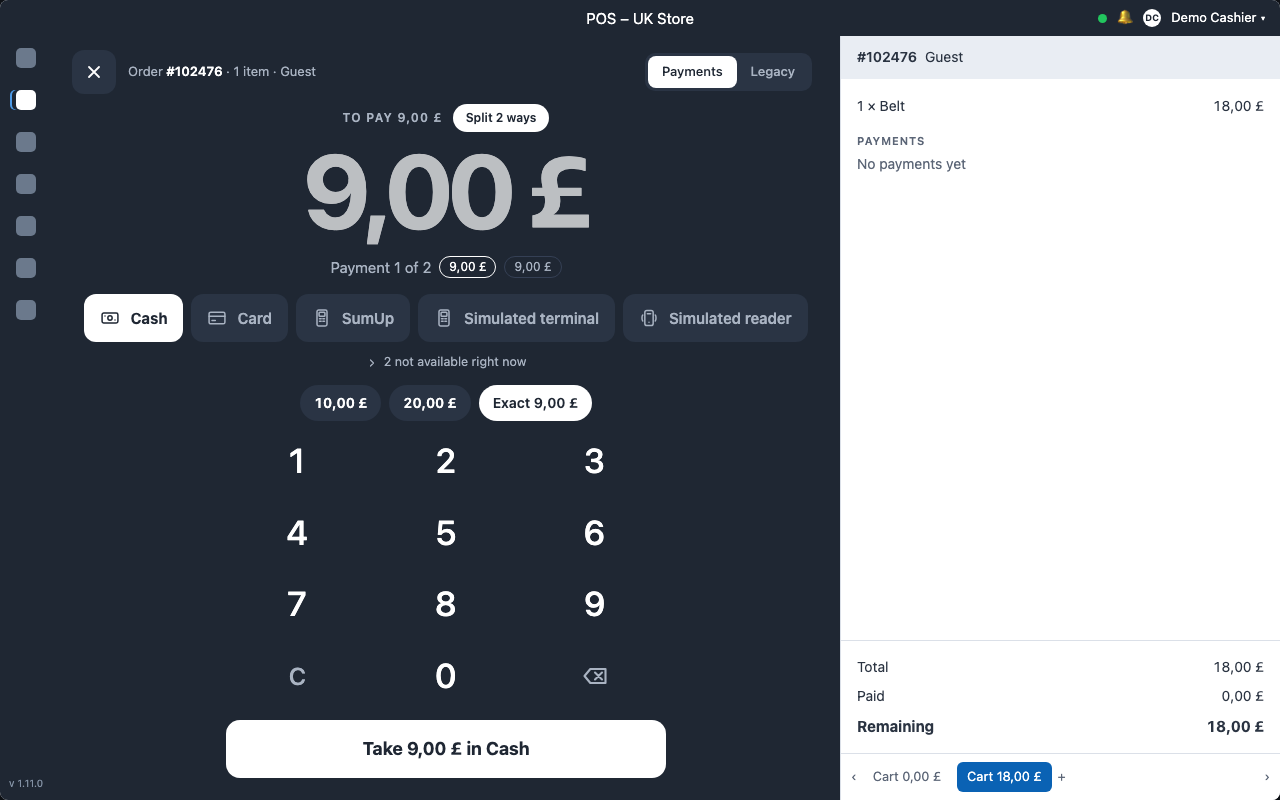
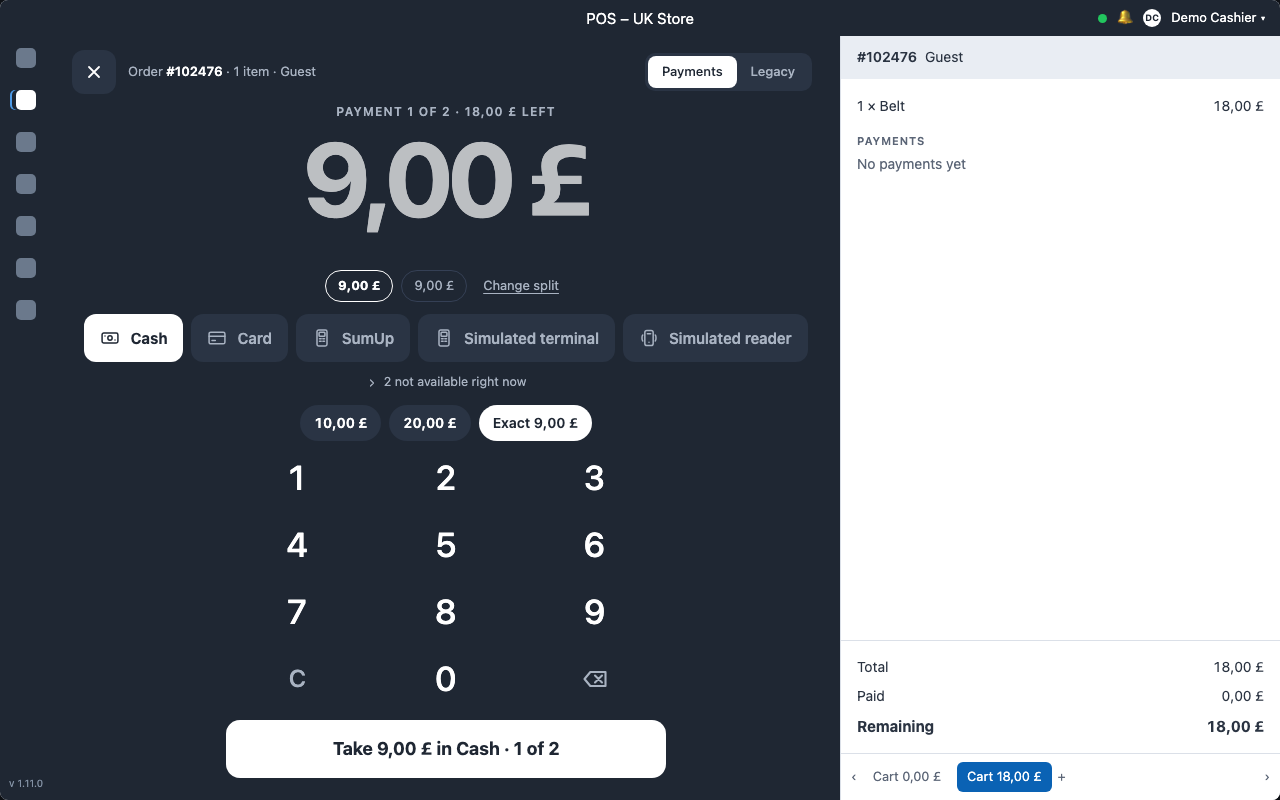
docs: tender pane round 6 — split chooser (2/3/4 ways, part payment, no split), visible plan strip, commit labels that say which payment and what is left

diff --git a/docs/prototypes/2026-09-11-tender-pane-mockups/index.html b/docs/prototypes/2026-09-11-tender-pane-mockups/index.html
@@ -36,7 +36,9 @@
   .rail i{width:20px;height:20px;border-radius:5px;background:#9fb0c8;opacity:.6;display:block}
   .rail i.on{background:#fff;opacity:1;box-shadow:-4px 0 0 0 var(--sidebar), -6px 0 0 0 #4d9ae6}
   .rail .v{margin-top:auto;margin-bottom:10px;color:#8593a6;font-size:10px}
-  .columns{display:grid;grid-template-columns:1fr 440px;min-height:0}
+  .columns{display:grid;grid-template-columns:1fr 440px;min-height:0;position:relative}
+  .paywrap{position:relative;min-height:0;min-width:0;display:flex;overflow:hidden}
+  .paywrap .pay{flex:1;min-width:0}
   .frame.phone .columns{grid-template-columns:1fr;grid-template-rows:1fr auto}
   /* ---- the pay surface ---- */
   .pay{background:var(--pay);color:var(--pay-fg);display:flex;flex-direction:column;padding:14px 28px 22px;min-height:0;position:relative;overflow:auto;transition:background .2s ease-out}
@@ -74,6 +76,30 @@
   .helpers .reader{display:inline-flex;align-items:center;gap:8px;font-size:13px;color:var(--pay-dim);height:36px;padding:0 12px;border-radius:99px;background:var(--pay-2)}
   .helpers .reader svg{width:16px;height:16px}
   .helpers .reader a{color:var(--pay-fg);font-weight:600;cursor:pointer;margin-left:4px}
+  .plan{display:flex;justify-content:center;align-items:center;gap:8px;margin-top:8px;flex-wrap:wrap}
+  .plan .pleg{display:inline-flex;align-items:center;gap:6px;height:32px;padding:0 12px;border-radius:99px;font-size:13px;font-variant-numeric:tabular-nums;border:1px solid var(--pay-3);color:var(--pay-dim)}
+  .plan .pleg.done{background:var(--pay-accent);color:#0f1a15;border-color:transparent;font-weight:600}
+  .plan .pleg.now{border-color:var(--pay-fg);color:var(--pay-fg);font-weight:700}
+  .plan .pleg svg{width:14px;height:14px}
+  .plan .edit{color:var(--pay-dim);font-size:13px;cursor:pointer;padding:6px 8px;border-radius:8px;text-decoration:underline;text-underline-offset:3px}
+  .plan .edit:hover{background:var(--pay-2)}
+  .sheet{position:absolute;inset:0;background:rgba(10,14,20,.55);display:flex;align-items:flex-end;justify-content:center;z-index:5}
+  .sheet .panel{width:100%;max-width:560px;background:var(--pay);color:var(--pay-fg);border-radius:20px 20px 0 0;padding:18px 20px 22px;box-shadow:0 -12px 40px rgba(0,0,0,.4);border:1px solid var(--pay-3);border-bottom:0;animation:up .22s cubic-bezier(.2,.9,.3,1) both}
+  .frame.light .sheet .panel{background:#fff}
+  @keyframes up{from{transform:translateY(24px);opacity:0}to{transform:none;opacity:1}}
+  .sheet .ph{display:flex;justify-content:space-between;align-items:center;font-size:17px;font-weight:700;margin-bottom:4px}
+  .sheet .ph .x{width:36px;height:36px;border-radius:10px;background:var(--pay-2);display:inline-flex;align-items:center;justify-content:center;cursor:pointer}
+  .sheet .ph .x svg{width:18px;height:18px}
+  .sheet .ps{font-size:13px;color:var(--pay-dim);margin-bottom:14px}
+  .opts{display:grid;grid-template-columns:repeat(3,1fr);gap:10px}
+  .opt{height:84px;border-radius:14px;background:var(--pay-2);display:flex;flex-direction:column;align-items:center;justify-content:center;gap:4px;cursor:pointer;transition:transform .08s;user-select:none}
+  .opt:active{transform:scale(.97)}
+  .opt.on{background:var(--pay-fg);color:var(--pay)}
+  .opt .t{font-size:17px;font-weight:700}
+  .opt .s{font-size:12.5px;opacity:.8;font-variant-numeric:tabular-nums}
+  .opts .opt.wide{grid-column:span 3;height:56px;flex-direction:row;gap:10px}
+  .opts .opt.wide .s{opacity:.7}
+  .frame.phone .opts{grid-template-columns:repeat(3,1fr)}
   .commit{display:flex;justify-content:center;margin-top:10px;flex:none}
   .commit .btn{width:100%;max-width:440px;height:58px;font-size:18px}
   .commit .btn.disabled{opacity:.45;cursor:default}
@@ -190,7 +216,9 @@
     <button data-jump="typed">Typed 20</button>
     <button data-jump="card">Card selected</button>
     <button data-jump="sumup">SumUp selected</button>
+    <button data-jump="splitsheet">Split chooser</button>
     <button data-jump="split">Split 2 ways</button>
+    <button data-jump="split3after">3 ways · after leg 1</button>
     <button data-jump="partpaid">After a cash leg</button>
     <button data-jump="terminal">On the terminal</button>
     <button data-jump="paid">Paid</button>
@@ -207,7 +235,7 @@
     <div class="topbar">POS – UK Store<div class="right"><span class="dot" id="dot"></span><span>🔔</span><span class="avatar">DC</span><span>Demo Cashier ▾</span></div></div>
     <div class="rail"><i></i><i class="on"></i><i></i><i></i><i></i><i></i><i></i><span class="v">v 1.11.0</span></div>
     <div class="columns">
-      <div class="pay" id="pay"></div>
+      <div class="paywrap"><div class="pay" id="pay"></div></div>
       <div class="ledger" id="ledger"></div>
       <div class="balbar" id="balbar"></div>
     </div>
@@ -221,7 +249,7 @@
     <li><b>The method is the commit.</b> Cash and Card are white and carry the amount they will take. Terminals and readers sit beside them in the same row, in POS-settings order; six gateways wrap to a second row, they never hide. Unavailable ones are faded with one quiet line under the row saying why.</li>
     <li><b>Card goes straight to the terminal moment.</b> No confirm screen: the surface becomes the amount, the terminal's live steps and a way out, then the Paid moment. Cash goes to Paid at once.</li>
     <li><b>Paid is a full-bleed beat.</b> The surface turns green, the tick draws, the change is the headline for cash, then Print / Email / No receipt · New sale. This is the joy, and it is over in a second.</li>
-    <li><b>Split and Legacy are text actions in the header.</b> Split turns the amount into a plan (Payment 1 of 2 · 9,00 | 9,00) and pre-types the leg. Custom amounts need no control: type.</li>
+    <li><b>Split is a chooser, then a plan you can see.</b> 2 / 3 / 4 ways with the amount each, or type a part payment. The strip under the number shows every leg: done ones green with their method, this one outlined, the rest dim; <i>Change split</i> re-plans the remainder at any time. The label and the commit button both say which payment this is and what is left.</li>
     <li><b>Three surfaces to choose from:</b> slate (the app's sidebar colour), the brand blue, and light. Same layout, same tokens.</li>
     <li><b>Close, not an arrow.</b> Esc on desktop.</li>
   </ul>
@@ -256,15 +284,27 @@ const METHODS = [
   { id:'stripe', kind:'reader',   title:'Stripe', device:true, why:'not available in the browser' },
 ];
 const TOTAL = 18.00;
-const S = { entry:null, split:'0', offline:0, surface:'slate', phone:0, legs:[], view:'keypad', term:null, timers:[], method:'cash', unavailOpen:0 };
+const S = { entry:null, plan:null, sheet:0, offline:0, surface:'slate', phone:0, legs:[], view:'keypad', term:null, timers:[], method:'cash', unavailOpen:0 };
+I.split='<svg viewBox="0 0 24 24" fill="none" stroke="currentColor" stroke-width="2" stroke-linecap="round"><path d="M12 4v16M4 12h16"/></svg>';
 I.caret='<svg viewBox="0 0 24 24" fill="none" stroke="currentColor" stroke-width="2.4" stroke-linecap="round" stroke-linejoin="round"><path d="M6 9l6 6 6-6"/></svg>';
 
 const paidSoFar = () => S.legs.reduce((a,l)=>a+l.amount,0);
 function figures(){
   const paid = paidSoFar(), remaining = Math.max(0, TOTAL - paid);
-  let thisPay = remaining, plan = null;
-  if (S.split==='2' && remaining>0){ const n=S.legs.length; thisPay = n===0 ? remaining/2 : remaining; plan = {txt:`Payment ${n+1} of 2`, legs:[{v:TOTAL/2,k:n>0?'done':'now'},{v:TOTAL/2,k:n>0?'now':''}]}; }
-  return { paid, remaining, thisPay, plan };
+  let thisPay = remaining, planInfo = null;
+  if (S.plan && remaining > 0){
+    const done = S.legs.length;                   // legs taken since the plan was made are counted from the start of the plan
+    const taken = S.legs.slice(S.plan.from);
+    const idx = taken.length;                     // index of the leg we are on
+    const left = S.plan.ways - idx;               // planned legs still to take, including this one
+    const each = left > 0 ? Math.round(remaining / left * 100) / 100 : remaining;
+    thisPay = left > 1 ? each : remaining;
+    const legs = [];
+    taken.forEach(l => legs.push({k:'done', v:l.amount, title:l.title}));
+    for (let i=0;i<left;i++){ const v = i===left-1 ? Math.round((remaining - each*(left-1))*100)/100 : each; legs.push({k:i===0?'now':'', v}); }
+    planInfo = { n: idx+1, ways: S.plan.ways, legs, left };
+  }
+  return { paid, remaining, thisPay, plan: planInfo };
 }
 const methods = () => METHODS.map(m => { let why = m.why || null; if (S.offline && (m.server||m.device)) why = 'needs a connection'; return {...m, why, off: !!why}; });
 const clearTimers = () => { S.timers.forEach(clearTimeout); S.timers = []; };
@@ -282,8 +322,8 @@ function keypadView(f){
   let line = '';
   if (change>0) line = `<span class="chg">Change ${fmt(change)}</span>`;
   else if (m && !m.change && entry > f.thisPay) line = `<span class="short">Only ${fmt(f.thisPay)} is due — ${m.title} can't give change</span>`;
-  else if (short>0 && entry>0) line = `<span class="short">${fmt(short)} still to take after this</span>`;
-  else if (f.plan) line = `<span class="plan">${f.plan.txt}</span>${f.plan.legs.map(l=>`<span class="leg ${l.k}">${fmt(l.v)}</span>`).join('')}`;
+  else if (short>0 && entry>0 && !f.plan) line = `<span class="short">Part payment · ${fmt(short)} left after this</span>`;
+  else if (short>0 && entry>0 && f.plan) line = `<span class="short">Less than planned · ${fmt(short)} moves to the next payment</span>`;
   const offline = S.offline ? `<span class="badge warn">${I.wifi} Offline · cash and card only</span>` : '';
   // helpers change with the selected method
   let helpers = '';
@@ -295,7 +335,25 @@ function keypadView(f){
   } else if (m){
     helpers = `<span class="q ${ghost?'on':''}" data-q="exact">Full balance ${fmt(f.thisPay)}</span>`;
   }
-  const commitLabel = !m ? 'Choose how the customer is paying' : (m.server||m.device) ? `Send ${fmt(applied)} to ${m.title}` : `Take ${fmt(applied)} in ${m.title}`;
+  const leftAfter = Math.round((f.remaining - applied)*100)/100;
+  const tail = f.plan ? ` · ${f.plan.n} of ${f.plan.ways}` : (leftAfter > 0 ? ` · ${fmt(leftAfter)} left` : '');
+  const commitLabel = !m ? 'Choose how the customer is paying' : ((m.server||m.device) ? `Send ${fmt(applied)} to ${m.title}` : `Take ${fmt(applied)} in ${m.title}`) + tail;
+  const planStrip = f.plan ? `<div class="plan">${f.plan.legs.map(l=>`<span class="pleg ${l.k}">${l.k==='done' ? I.check : ''}${l.title ? l.title + ' ' : ''}${fmt(l.v)}</span>`).join('')}<span class="edit" data-split>Change split</span></div>` : '';
+  const half = f.remaining/2, third = f.remaining/3, quarter = f.remaining/4;
+  const sheet = S.sheet ? `
+  <div class="sheet" data-sheet-bg>
+    <div class="panel">
+      <div class="ph"><span>Split ${fmt(f.remaining)}</span><span class="x" data-sheet-close>${I.close}</span></div>
+      <div class="ps">Any method for each payment · change the split at any time</div>
+      <div class="opts">
+        <span class="opt ${S.plan && S.plan.ways===2?'on':''}" data-ways="2"><span class="t">2 ways</span><span class="s">${fmt(half)} each</span></span>
+        <span class="opt ${S.plan && S.plan.ways===3?'on':''}" data-ways="3"><span class="t">3 ways</span><span class="s">${fmt(third)} each</span></span>
+        <span class="opt ${S.plan && S.plan.ways===4?'on':''}" data-ways="4"><span class="t">4 ways</span><span class="s">${fmt(quarter)} each</span></span>
+        <span class="opt wide" data-ways="custom"><span class="t">Type an amount</span><span class="s">take part now, the rest after</span></span>
+        ${S.plan ? `<span class="opt wide" data-ways="0"><span class="t">No split</span><span class="s">take the ${fmt(f.remaining)} in one payment</span></span>` : ''}
+      </div>
+    </div>
+  </div>` : '';
   const canCommit = m && applied > 0 && !(m && !m.change && entry > f.thisPay);
   return `
   <div class="hd">
@@ -305,22 +363,24 @@ function keypadView(f){
     <div class="seg"><span class="on">Payments</span><span>Legacy</span></div>
   </div>
   <div class="amt">
-    <div class="lblrow"><span class="lbl">${f.paid>0 ? 'Remaining' : 'To pay'} ${fmt(f.thisPay)}</span>${f.remaining>0 ? `<span class="splitchip ${S.split!=='0'?'on':''}" data-split>${S.split!=='0' ? 'Split 2 ways' : 'Split'}</span>` : ''}${offline}</div>
+    <div class="lblrow"><span class="lbl">${f.plan ? `Payment ${f.plan.n} of ${f.plan.ways} · ${fmt(f.remaining)} left` : (f.paid>0 ? 'Remaining' : 'To pay') + ' ' + fmt(f.thisPay)}</span>${f.remaining>0 && !f.plan ? `<span class="splitchip" data-split>Split</span>` : ''}${offline}</div>
     <div class="big ${ghost?'ghost':''}" id="big">${fmt(entry)}</div>
     <div class="line">${line}</div>
+    ${planStrip}
   </div>
   <div class="sel">${ons.map(x=>`<span class="m ${x.id===S.method?'on':''}" data-pick="${x.id}"><span class="ic">${I[x.kind]}</span>${x.title}</span>`).join('')}</div>
   ${offs.length ? `<div class="unav ${S.unavailOpen?'':'closed'}"><span class="h" data-unavail><span class="car">${I.caret}</span>${offs.length} not available right now</span><ul>${offs.map(x=>`<li><span class="ic">${I[x.kind]}</span><b>${x.title}</b><span class="why">${x.why}</span></li>`).join('')}</ul></div>` : ''}
   <div class="helpers">${helpers}</div>
   <div class="keys">${['1','2','3','4','5','6','7','8','9'].map(k=>`<span class="k" data-key="${k}">${k}</span>`).join('')}<span class="k sub" data-key="C">C</span><span class="k" data-key="0">0</span><span class="k sub" data-key="⌫">${I.del}</span></div>
-  <div class="commit"><span class="btn white ${canCommit?'':'disabled'}" ${canCommit && m ? `data-take="${m.id}"` : ''}>${commitLabel}</span></div>`;
+  <div class="commit"><span class="btn white ${canCommit?'':'disabled'}" ${canCommit && m ? `data-take="${m.id}"` : ''}>${commitLabel}</span></div>
+  ${sheet}`;
 }
 
 function terminalView(f){
   const t = S.term; const m = METHODS.find(x=>x.id===t.method);
   const steps = ['Sent','On terminal','Approved','Captured'];
   return `
-  <div class="hd"><span class="title">Order <b>#102476</b> · 1 item</span><span class="lnk">${f.plan ? f.plan.txt : 'Payment 1 of 1'}</span></div>
+  <div class="hd"><span class="title">Order <b>#102476</b> · 1 item</span><span class="lnk">${f.plan ? `Payment ${f.plan.n} of ${f.plan.ways}` : 'Payment 1 of 1'}</span></div>
   <div class="term">
     <div class="amt"><div class="lbl">On the terminal</div><div class="big" style="font-size:80px">${fmt(t.amount)}</div><div class="line"><span class="plan">${t.step<1?'Sending to the terminal…':t.step<2?'Waiting for the customer':t.step<3?'Approved, capturing…':'Captured'}</span></div></div>
     <div class="ring"></div>
@@ -339,7 +399,7 @@ function paidView(f){
   <div class="paidwrap">
     <div class="tick">${I.check}</div>
     <div class="h">${change>0 ? 'Change ' + fmt(change) : 'Paid ' + fmt(TOTAL)}</div>
-    <div class="s">${change>0 ? `Paid <b>${fmt(TOTAL)}</b> · tendered <b>${fmt(last.amount + change)}</b> in cash` : (last.title + (last.detail ? ' · ' + last.detail : ''))}${S.legs.length>1 ? ` · ${S.legs.length} payments` : ''}</div>
+    <div class="s">${change>0 ? `Paid <b>${fmt(TOTAL)}</b> · tendered <b>${fmt(last.amount + change)}</b> in cash` : (last.title + (last.detail ? ' · ' + last.detail : ''))}${S.legs.length>1 ? ` · ${S.legs.length} payments: ${S.legs.map(l=>l.title+' '+fmt(l.amount)).join(', ')}` : ''}</div>
     <div class="acts"><span class="btn white" data-new>Print receipt · New sale</span><span class="btn ghost" data-new>Email receipt</span><span class="btn ghost" data-new>No receipt · New sale</span></div>
   </div>`;
 }
@@ -386,17 +446,20 @@ function take(id){
 function land(m, applied, change, detail){
   S.legs.push({ title: m.title, amount: applied, change, detail, fresh:true });
   S.entry = null; S.term = null; S.view = 'keypad';
+  if (S.plan && S.legs.length - S.plan.from >= S.plan.ways) S.plan = null;
   const f = figures();
   if (f.remaining <= 0) S.view = 'paid';
   render();
 }
 function jump(name){
-  clearTimers(); S.entry=null; S.split='0'; S.legs=[]; S.view='keypad'; S.term=null; S.method='cash'; S.unavailOpen=0;
+  clearTimers(); S.entry=null; S.plan=null; S.sheet=0; S.legs=[]; S.view='keypad'; S.term=null; S.method='cash'; S.unavailOpen=0;
   if (name==='typed') S.entry = 20;
   if (name==='card') S.method = 'card';
   if (name==='sumup') S.method = 'sumup';
   if (name==='unavail') S.unavailOpen = 1;
-  if (name==='split') S.split = '2';
+  if (name==='split') S.plan = { ways:2, from:0 };
+  if (name==='splitsheet') S.sheet = 1;
+  if (name==='split3after'){ S.plan = { ways:3, from:0 }; S.legs = [{title:'Cash', amount:6, change:0, detail:'Tendered 6,00 £ · change 0,00 £'}]; S.method='card'; }
   if (name==='partpaid') S.legs = [{title:'Cash', amount:10, change:0, detail:'Tendered 10,00 £ · change 0,00 £'}];
   if (name==='terminal'){ S.view='terminal'; S.term={method:'sumup', amount:18, step:1}; }
   if (name==='paid'){ S.legs=[{title:'Cash', amount:18, change:2, detail:'Tendered 20,00 £ · change 2,00 £'}]; S.view='paid'; }
@@ -421,12 +484,20 @@ document.getElementById('pay').addEventListener('click', e => {
   const pk = t.closest('[data-pick]'); if (pk){ S.method = pk.dataset.pick; S.entry = null; return render(); }
   if (t.closest('[data-unavail]')){ S.unavailOpen = S.unavailOpen ? 0 : 1; return render(); }
   const m = t.closest('[data-take]'); if (m) return take(m.dataset.take);
-  if (t.closest('[data-split]')){ S.split = S.split==='0' ? '2' : '0'; S.entry=null; return render(); }
+  const w = t.closest('[data-ways]'); if (w){
+    const ways = w.dataset.ways;
+    if (ways==='custom'){ S.plan = null; S.entry = 0; S.sheet = 0; return render(); }
+    if (ways==='0'){ S.plan = null; S.entry = null; S.sheet = 0; return render(); }
+    S.plan = { ways:+ways, from:S.legs.length }; S.entry = null; S.sheet = 0; return render();
+  }
+  if (t.closest('[data-sheet-close]') || (t.closest('[data-sheet-bg]') && !t.closest('.panel'))){ S.sheet = 0; return render(); }
+  if (t.closest('[data-split]')){ S.sheet = 1; return render(); }
   if (t.closest('[data-close]') || t.closest('[data-new]')) return jump('fresh');
   if (t.closest('[data-cancel-terminal]')){ clearTimers(); S.view='keypad'; S.term=null; return render(); }
   if (t.closest('[data-cancel-payment]')){ S.legs=[]; S.entry=null; return render(); }
 });
 document.addEventListener('keydown', e => {
+  if (S.sheet && e.key==='Escape'){ S.sheet=0; return render(); }
   if (S.view!=='keypad') { if (e.key==='Escape') jump('fresh'); return; }
   if (/^[0-9]$/.test(e.key) || e.key==='Backspace' || e.key==='Escape'){
     if (e.key==='Escape') return jump('fresh');

diff --git a/docs/prototypes/2026-09-11-tender-pane-mockups/README.md b/docs/prototypes/2026-09-11-tender-pane-mockups/README.md
@@ -16,7 +16,7 @@ The dark strip at the top is not part of the design.
 
 | Control | What it changes |
 |---|---|
-| **Jump to** | Fresh sale · Typed 20 · Card selected · SumUp selected · Split 2 ways · After a cash leg · On the terminal · Paid · Unavailable list open |
+| **Jump to** | Fresh sale · Typed 20 · Card selected · SumUp selected · Split chooser · Split 2 ways · 3 ways after leg 1 · After a cash leg · On the terminal · Paid · Unavailable list open |
 | **Network** | offline: one badge by the label, the dot in the top bar, terminal pills faded with one line under the row saying why |
 | **Surface** | Slate (the sidebar colour) · Blue (brand) · Light |
 | **Width** | Tablet (1280, ledger beside) or Phone (390, ledger folded to a balance bar, method row scrolls) |
@@ -28,7 +28,7 @@ Keyboard: digits and Backspace type, Enter takes cash, Esc closes.
 - **The amount is the screen.** Balance pre-typed, dimmed until you type; the change line rises as you type; a short amount says what is still to take.
 - **Choose the method, then commit** (round 5, after Paul's notes). The method row under the amount is a selector; the helpers change with it (notes + Exact for cash, Full balance for card, reader line + Change for a terminal); one white button at the bottom names the action. Unavailable gateways sit in a folded *N not available right now* list with reasons. Payments / Legacy is a segmented control at the far right; Split is a chip beside the To pay label.
 - **Card → terminal moment → Paid.** No confirm screen. The Paid moment is full-bleed green, the tick draws, change is the headline for cash, then Print / Email / No receipt · New sale.
-- **Split** is a header action that turns the amount into a plan and pre-types the leg. Custom amounts: type.
+- **Split flow** (round 6). The Split chip opens a chooser: 2 / 3 / 4 ways with the per-payment amount on each, *Type an amount* for a part payment, and *No split* once a plan exists. A plan puts a strip under the number: done legs green with their method, the current leg outlined, the rest dim, and *Change split* beside them. The label reads *Payment 2 of 3 · 12,00 £ left*, the commit button reads *Take 6,00 £ in Card · 2 of 3*. Typing less than the planned leg says the difference moves to the next payment; a part payment without a plan says what is left after it. Each leg can use a different method.
 - **Close, not an arrow.**
 
 ## Screens
